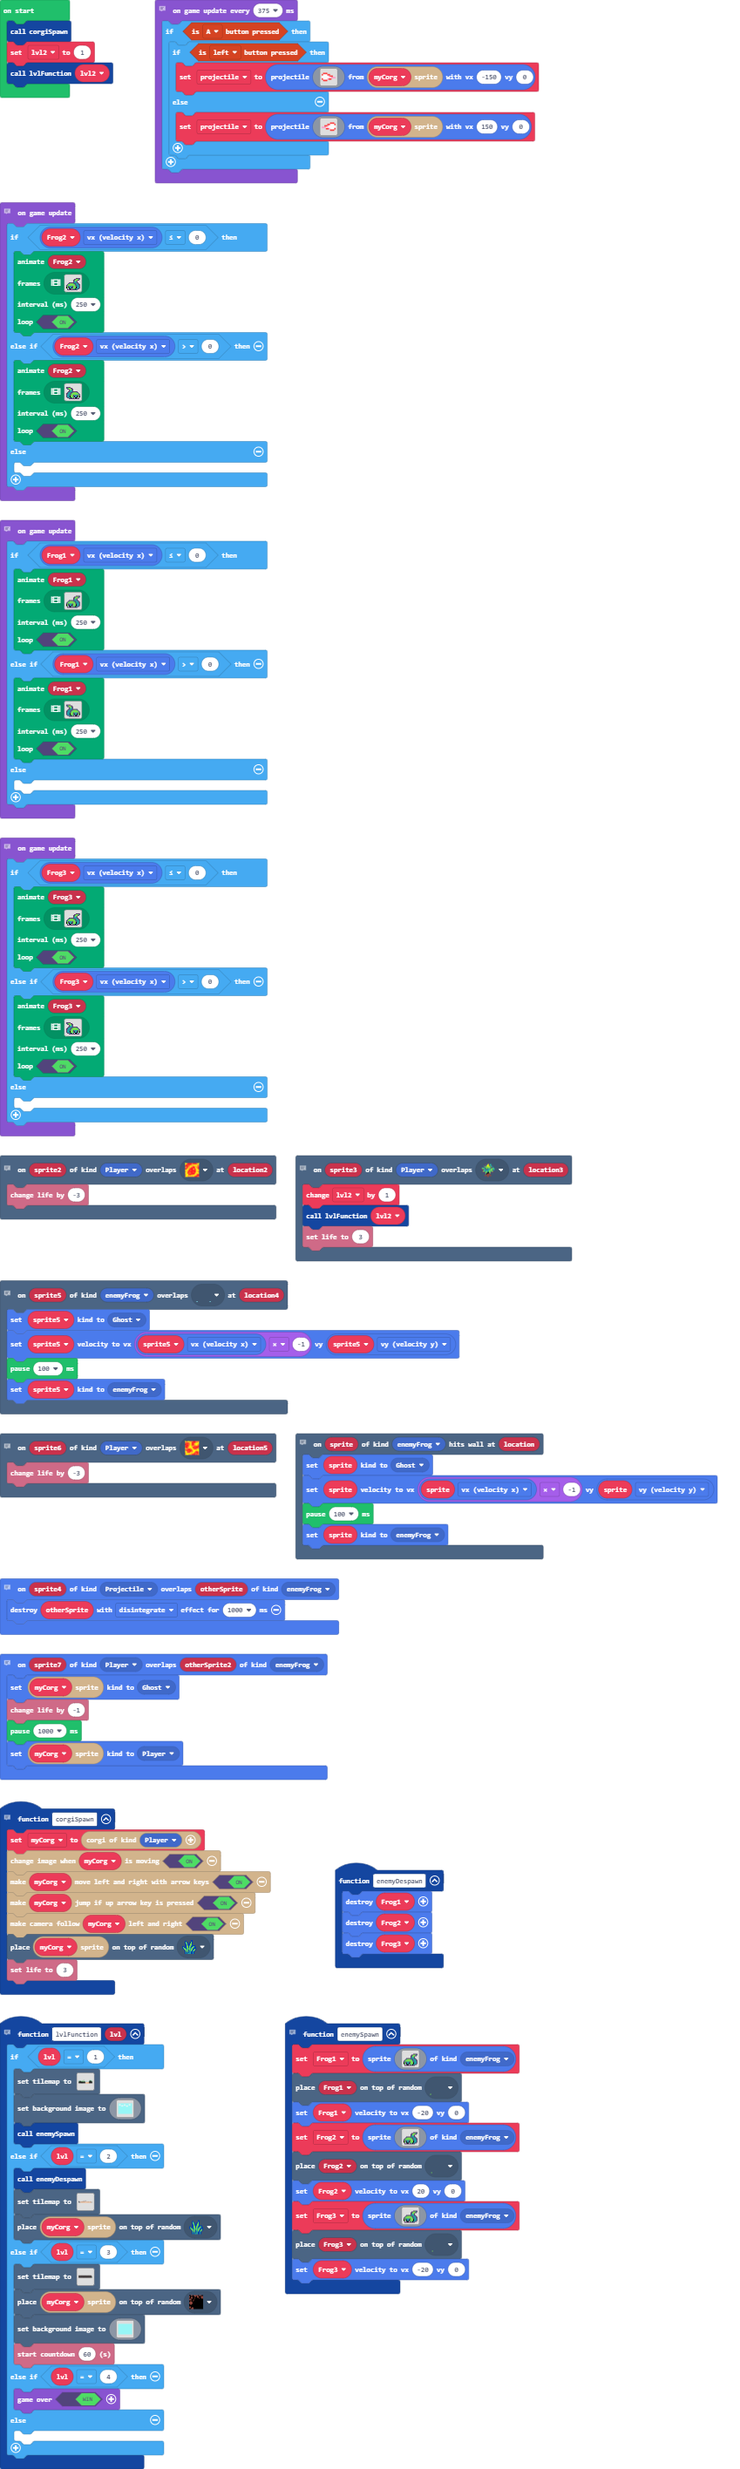
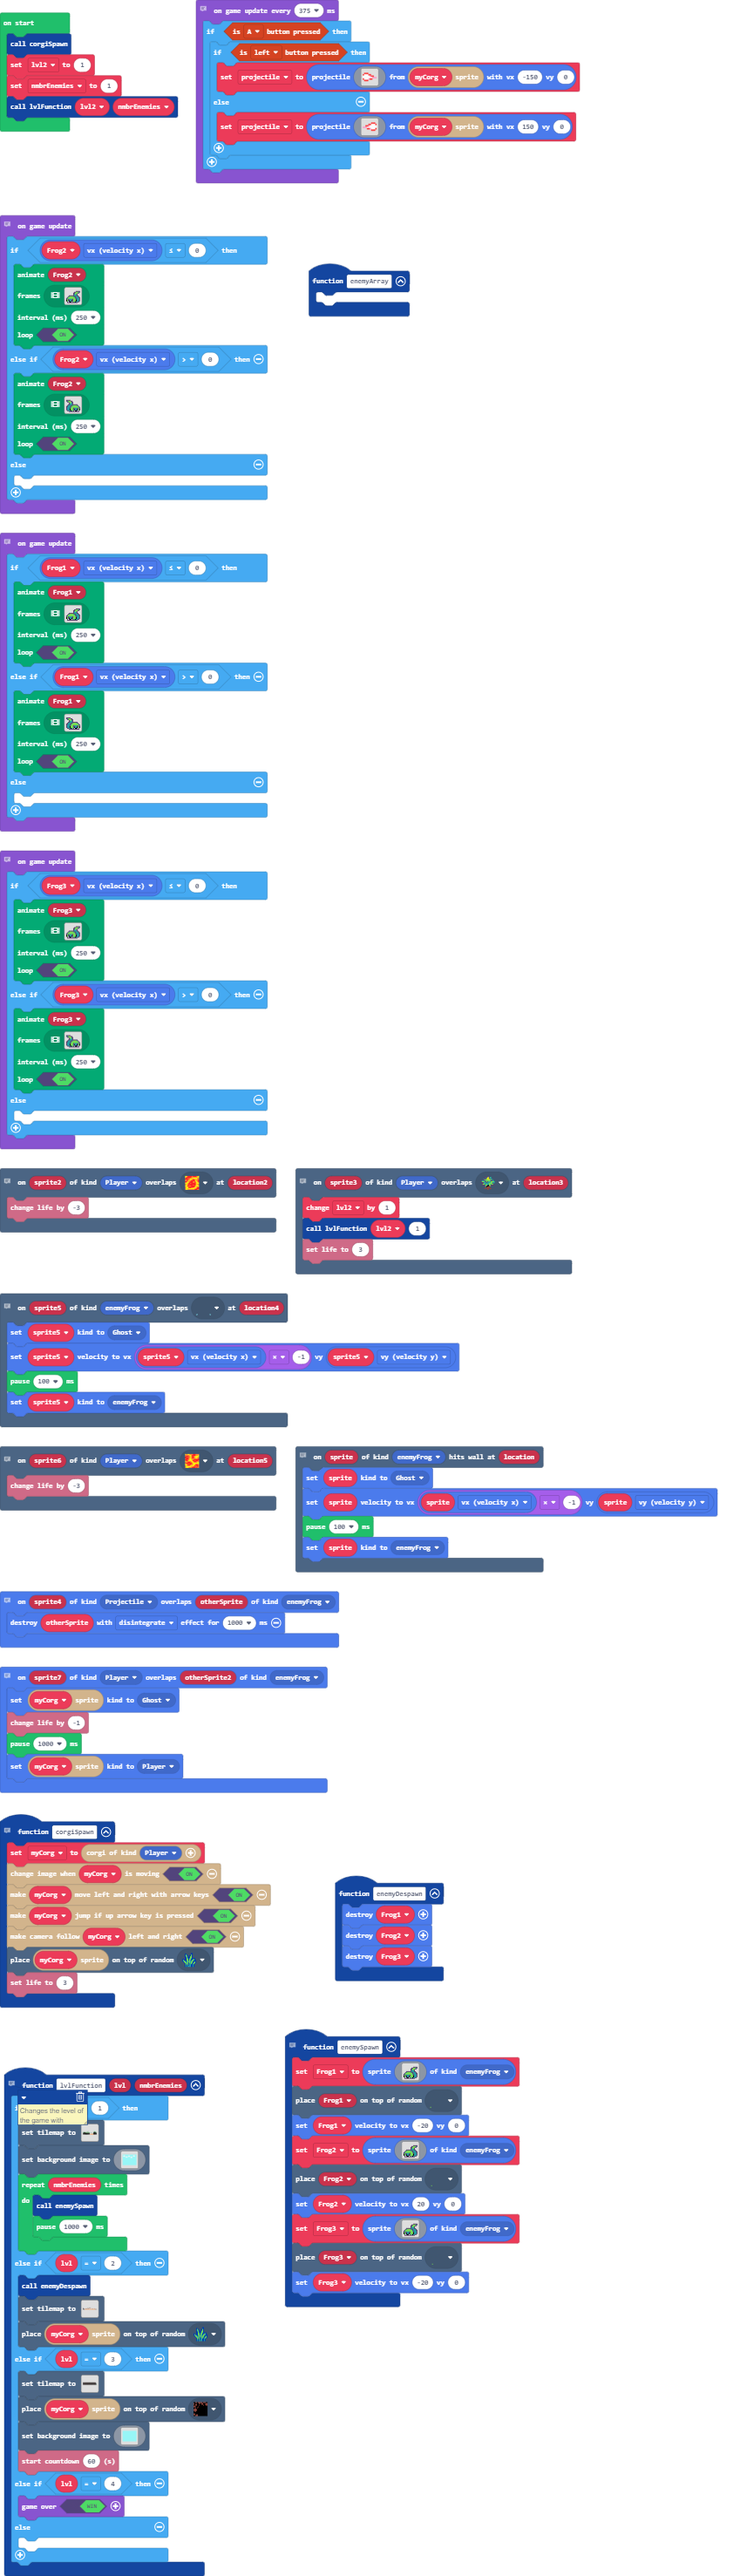
Added a loop to the level function that will later allow us to switch between easy and hard game modes.

Changed region(s): [[0.0, 0.0, 0.98, 1.0]]

diff --git a/main.ts b/main.ts
@@ -79,8 +79,8 @@ sprites.onOverlap(SpriteKind.Player, SpriteKind.enemyFrog, function (sprite7, ot
     pause(1000)
     myCorg.sprite.setKind(SpriteKind.Player)
 })
-// Changes the level of the game with variables.
-function lvlFunction (lvl: number) {
+// Changes the level of the game with variables. (nmbrEnemies will always be a factor of 3 in total)
+function lvlFunction (lvl: number, nmbrEnemies: number) {
     if (lvl == 1) {
         tiles.setTilemap(tilemap`level1`)
         scene.setBackgroundImage(img`
@@ -205,7 +205,10 @@ function lvlFunction (lvl: number) {
             9999999999999999999999999999999999999999999999999999999999999999999999999999999999999999999999999999999999999999999999999999999999999999999999999999999999999999
             9999999999999999999999999999999999999999999999999999999999999999999999999999999999999999999999999999999999999999999999999999999999999999999999999999999999999999
             `)
-        enemySpawn()
+        for (let index = 0; index < nmbrEnemies; index++) {
+            enemySpawn()
+            pause(1000)
+        }
     } else if (lvl == 2) {
         enemyDespawn()
         tiles.setTilemap(tilemap`level2`)
@@ -361,7 +364,7 @@ scene.onOverlapTile(SpriteKind.enemyFrog, assets.tile`myTile5`, function (sprite
 // This is the end marker for each level.
 scene.onOverlapTile(SpriteKind.Player, sprites.castle.saplingPine, function (sprite3, location3) {
     lvl2 += 1
-    lvlFunction(lvl2)
+    lvlFunction(lvl2, 1)
     info.setLife(3)
 })
 // This spawns in the corgi, it allows movement, andimation, and gravity as well.
@@ -382,6 +385,9 @@ scene.onOverlapTile(SpriteKind.Player, sprites.dungeon.hazardLava0, function (sp
 sprites.onOverlap(SpriteKind.Projectile, SpriteKind.enemyFrog, function (sprite4, otherSprite) {
     otherSprite.destroy(effects.disintegrate, 1000)
 })
+function enemyArray () {
+	
+}
 let projectile: Sprite = null
 let myCorg: Corgio = null
 let Frog3: Sprite = null
@@ -390,7 +396,8 @@ let Frog1: Sprite = null
 let lvl2 = 0
 corgiSpawn()
 lvl2 = 1
-lvlFunction(lvl2)
+let nmbrEnemies = 1
+lvlFunction(lvl2, nmbrEnemies)
 // This animates Frog2.
 game.onUpdate(function () {
     if (Frog2.vx <= 0) {
